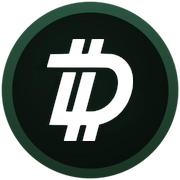
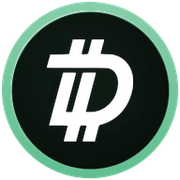
Add files via upload

diff --git a/index.html b/index.html
@@ -33,6 +33,8 @@
 })();
 </script>
   <link rel="icon" href="/favicon.ico" sizes="any">
+  <link rel="icon" type="image/png" sizes="32x32" href="/favicon-32x32-light.png" media="(prefers-color-scheme: light)">
+  <link rel="icon" type="image/png" sizes="16x16" href="/favicon-16x16-light.png" media="(prefers-color-scheme: light)">
   <link rel="icon" type="image/png" sizes="32x32" href="/favicon-32x32.png">
   <link rel="icon" type="image/png" sizes="16x16" href="/favicon-16x16.png">
   <link rel="apple-touch-icon" sizes="180x180" href="/apple-touch-icon.png">
